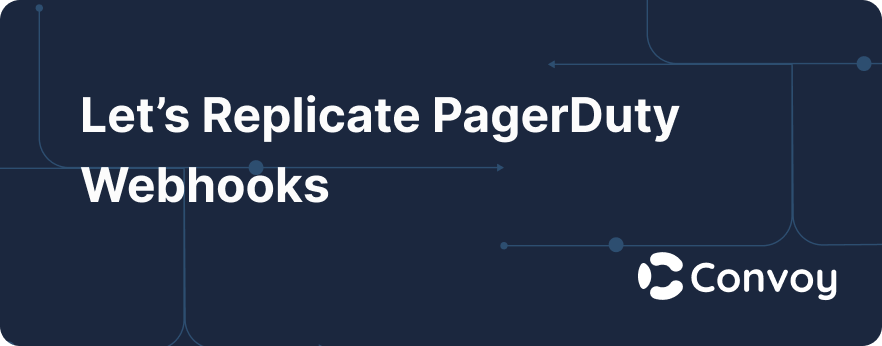
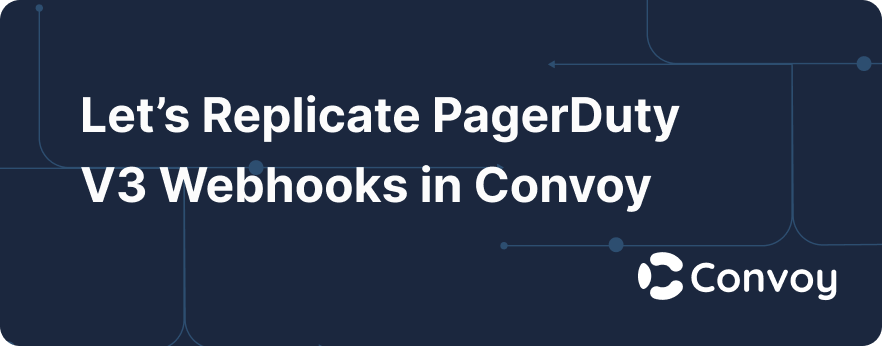
fix: fixed image

Changed region(s): [[0.0918, 0.4624, 0.7347, 0.6069]]

diff --git a/content/blog/lets-replicate-pagerduty-webhooks.md b/content/blog/lets-replicate-pagerduty-webhooks.md
@@ -1,5 +1,5 @@
 ---
-title: Let's Replicate PagerDuty Webhooks
+title: Let's Replicate PagerDuty V3 Webhooks in Convoy
 feature_image: pagerduty-webhooks.png
 post_image: pagerduty-webhooks.png
 primary_author:
